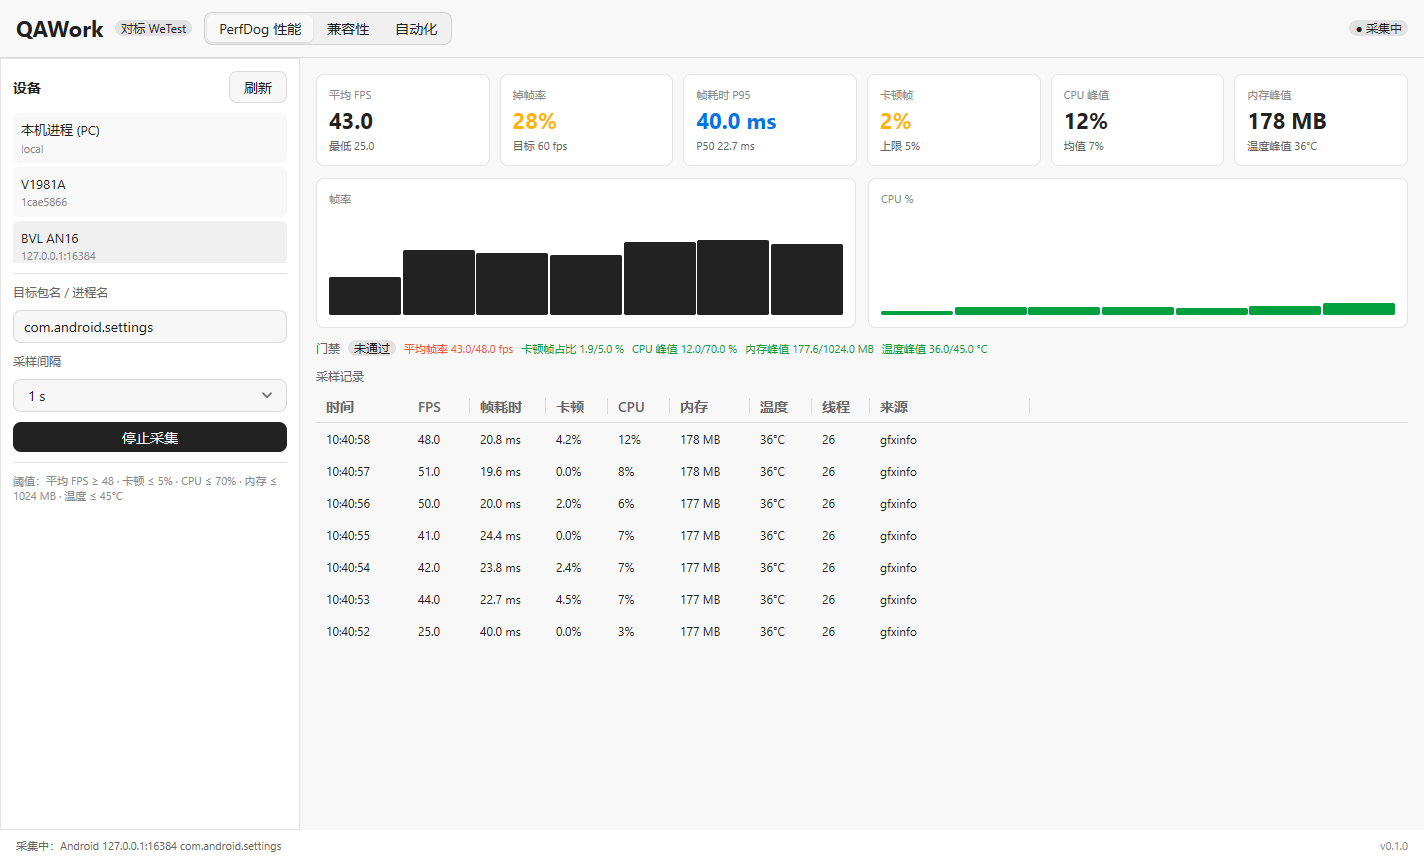
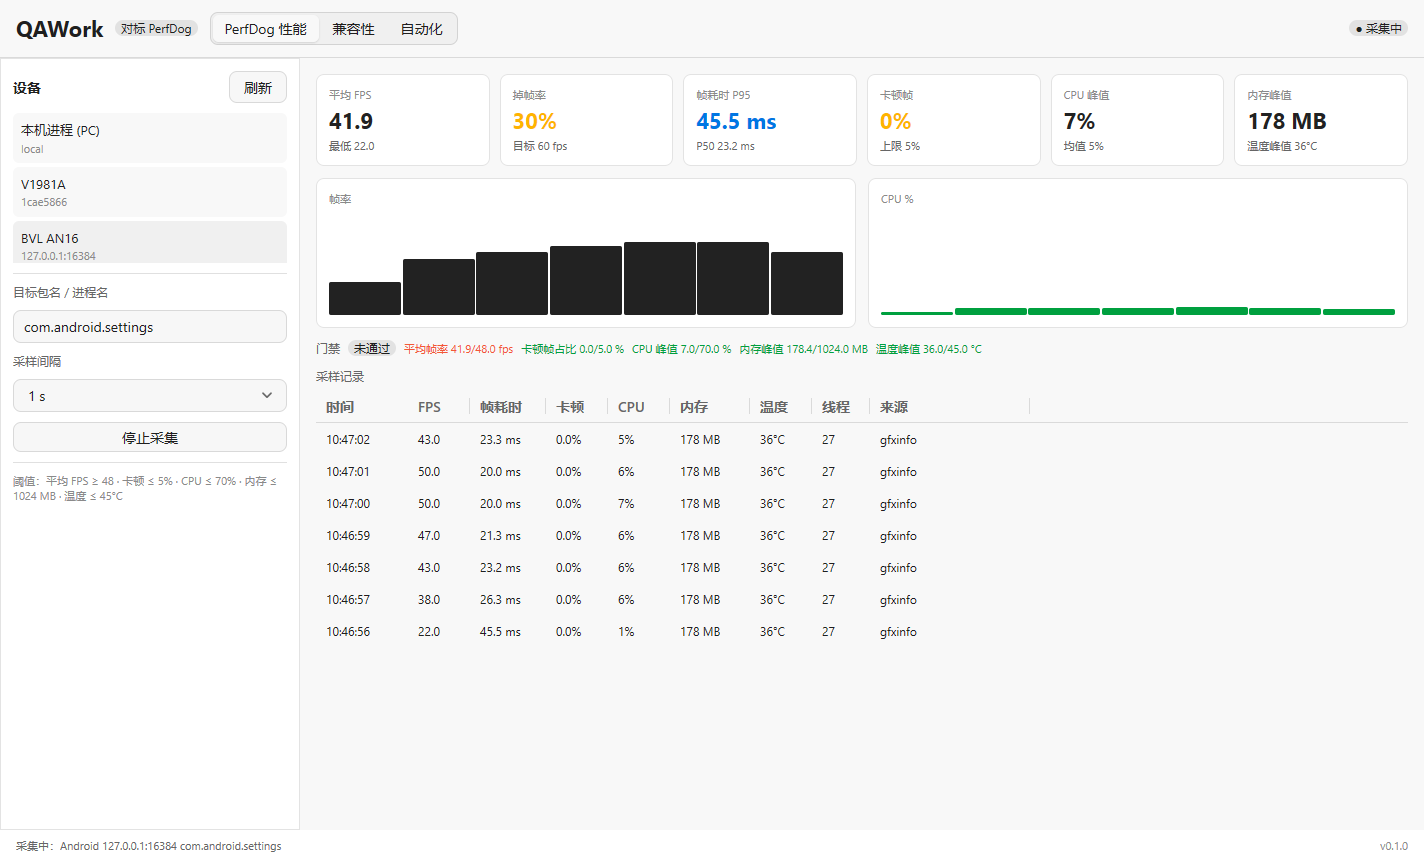
docs+ci: 竞品锁定 PerfDog 产品页，工作模式写入规范，CI 断言 CGO_ENABLED=0

diff --git a/internal/app/app.go b/internal/app/app.go
@@ -36,10 +36,20 @@ const (
 	tableSamples   = 40
 )
 
+// The workbench declares three modes. Only PerfDog performance capture is
+// wired; compatibility and automation are labelled as planned, never
+// filled with mock data. The default stays PerfDog, and the numbering is
+// part of the app's public shape.
+const (
+	ModePerfDog = iota
+	ModeCompat
+	ModeAutomation
+)
+
 // App is the state of the workbench.
 type App struct {
 	ADB           perf.ADB
-	Mode          int // 0 PerfDog 性能, 1 兼容性, 2 自动化
+	Mode          int // ModePerfDog 默认, ModeCompat, ModeAutomation
 	Serial        string
 	Target        string // Android package or Windows executable
 	Interval      int
@@ -69,7 +79,7 @@ type App struct {
 func New(host Host) *App {
 	return &App{
 		ADB:           perf.ADB{},
-		Mode:          0,
+		Mode:          ModePerfDog,
 		Interval:      1,
 		IntervalLabel: "1 s",
 		NominalFPS:    60,
@@ -311,9 +321,9 @@ func (a *App) View(c *ui.Context) {
 			a.sidebar(c, tk)
 			ui.Column(c).Grow(1).Basis(0).MinHeight(0).Padding(16).Gap(12).Children(func() {
 				switch a.Mode {
-				case 1:
+				case ModeCompat:
 					a.compatPanel(c, tk)
-				case 2:
+				case ModeAutomation:
 					a.automationPanel(c, tk)
 				default:
 					a.perfPanel(c, tk)
@@ -327,7 +337,7 @@ func (a *App) View(c *ui.Context) {
 func (a *App) header(c *ui.Context, tk *theme.Tokens) {
 	ui.Row(c).Padding(12, 16).Gap(12).AlignItems(ui.Center).Children(func() {
 		ui.Text(c, version.Product).FontSize(22).Bold().TextColor(tk.Text)
-		ui.Badge(c, "对标 WeTest")
+		ui.Badge(c, "对标 PerfDog")
 		ui.Segmented(c, &a.Mode, "PerfDog 性能", "兼容性", "自动化")
 		ui.Spacer(c)
 		if a.IsRunning() {
@@ -555,13 +565,13 @@ func (a *App) compatPanel(c *ui.Context, tk *theme.Tokens) {
 			ui.Text(c, "兼容性矩阵").FontSize(16).Bold().TextColor(tk.Text)
 			ui.Badge(c, "规划中")
 		})
-		ui.Text(c, "对标 WeTest 的云真机兼容性：QAWork 不上传安装包，走本地设备农场。").
+		ui.Text(c, "PerfDog 只做性能；兼容性在 QAWork 里是另一条线：本地设备农场，不上传安装包。").
 			FontSize(12).TextColor(tk.TextSecondary).Wrap()
 		for _, item := range []string{
 			"多机型批量安装、冷启动、首帧耗时",
 			"分辨率 / 系统版本 / ABI 矩阵，结果本地落盘",
 			"崩溃与 ANR 率统计，同一 CSV 口径进 CI",
-			"预留云真机通道：WeTest / 自建设备池二选一",
+			"预留云真机通道：租云设备或自建设备池，二选一",
 		} {
 			ui.Text(c, "· "+item).FontSize(12).TextColor(tk.TextSecondary).Wrap()
 		}

diff --git a/README.md b/README.md
@@ -5,28 +5,32 @@
 
 ![QAWork 工作台](docs/shot.png)
 
-## 三种工作模式
+## 为什么不是 PerfDog 的复制品
 
-| 模式 | 状态 | 干什么 |
+竞品很明确：[腾讯 PerfDog](https://wetest.qq.com/products/perfdog)——成熟、跨端、开箱即用的性能测试工具。QAWork 不和它拼功能数量，拼的是"能不能留在自己的流水线里"：
+
+| 维度 | PerfDog（腾讯 WeTest 产品） | QAWork（本地工作台） |
 | --- | --- | --- |
-| **PerfDog 性能**（默认） | 可用 | adb 采集帧率、帧耗时 P50/P95/P99、卡顿帧、CPU、内存、温度；写 CSV，按阈值判定 |
-| 兼容性 | 规划中 | 本地设备农场跑多机型安装/冷启/崩溃 ANR 矩阵，不上传安装包 |
-| 自动化 | 规划中 | `qawork.yaml` 用例 + adb 回放，跑完自动盖性能门禁 |
+| 形态 | 桌面客户端 + 账号体系，云同步报告 | 开源原生窗口 + CLI，离线可用 |
+| 平台 | Android / iOS 等多端，覆盖成熟 | Android + Windows 本机进程（CPU/内存），iOS 未接 |
+| 数据 | 平台报告为主 | CSV/JSON 落本地，直接进 CI |
+| 自动化 | 客户端内报告与分析 | 退出码 2 的门禁，任意 CI 直接卡 |
+| 二开 | 闭源 | 纯 Go，改采样器、接自有设备池 |
+| 成本 | 免费额度 + 订阅，以官方为准 | 开源免费，硬件自己的 |
 
-## 为什么不是 WeTest 的复制品
+定位：**PerfDog 解决"拿来就能测"，QAWork 解决"测完能卡住发布"。** 短期不追它的平台覆盖，先把 Android 口径和 CI 门禁做扎实。
 
-WeTest 是腾讯的质量开放平台，强在云真机池和 SaaS 协作；QAWork 走的是另一条路：
+## 工作模式
 
-| 维度 | WeTest（云平台） | QAWork（本地工作台） |
-| --- | --- | --- |
-| 形态 | 网页 + 云真机 + 客户端 SDK | 原生桌面窗口 + CLI，离线可用 |
-| 数据 | 上传云端 | CSV/JSON 落本地，直接进 CI |
-| 性能采集 | 云真机 / PerfDog 系列工具 | 内置 PerfDog 口径：SurfaceFlinger 帧延迟 + `/proc` 进程指标 |
-| 兼容性 | 租云真机跑矩阵 | 接自己的设备池，零上传 |
-| 自动化 | 云端用例编排 | 本地用例 + CI 触发 |
-| 成本 | 按设备时长计费，以官方为准 | 开源免费，硬件自己的 |
+当前声明三种，只有第一种是可用状态，另外两种是明确标注的规划，不摆假数据：
 
-定位很清楚：**WeTest 解决"没设备、要协作"，QAWork 解决"有设备、要快、要能进流水线"。**
+| # | 模式 | 状态 | 说明 |
+| --- | --- | --- | --- |
+| 0 | **PerfDog 性能**（默认） | 可用 | 对标 [PerfDog](https://wetest.qq.com/products/perfdog) 的采集口径 |
+| 1 | 兼容性 | 规划中 | 本地设备农场跑安装/冷启/崩溃矩阵，不属于 PerfDog 的能力范围 |
+| 2 | 自动化 | 规划中 | `qawork.yaml` 用例 + adb 回放 + 性能门禁 |
+
+模式编号与默认值写死在 `internal/app`（`Mode` 默认 0），文档、UI、CLI 三处必须一致。
 
 ## 快速开始
 
@@ -95,7 +99,7 @@ if ($LASTEXITCODE -eq 2) { throw "性能门禁未通过" }
 
 ## 商标
 
-WeTest、PerfDog 是腾讯的商标/产品。QAWork 与腾讯无隶属关系，"PerfDog 模式"仅表示采集口径对齐，便于横向比较。
+WeTest、PerfDog 是腾讯的商标/产品，竞品页为 <https://wetest.qq.com/products/perfdog>。QAWork 与腾讯无隶属关系，"PerfDog 模式"仅表示采集口径对齐，便于横向比较。
 
 ## License
 

diff --git a/AGENTS.md b/AGENTS.md
@@ -5,9 +5,24 @@ QAWork 的工程规则。改代码前先读这一页。
 ## 栈与约束
 
 - **Go 1.27+，纯 Go，`CGO_ENABLED=0`**。不允许 `import "C"`，不允许 C/C++ 构建依赖。
+- **构建硬约束**：所有构建、测试、CI 都显式 `CGO_ENABLED=0`；验证时 `go env CGO_ENABLED` 必须是 `0`。引入 cgo 的 PR 直接拒，不讨论"临时开一下"。
 - **原生 UI**：`github.com/egoist/mygo`（`ui.View` / `ui.Context`）+ `github.com/lobehub/lobe-mygo/pkg/theme`（设计令牌）。不用 WebView、HTML、CSS、JS。
 - **发布目标**：`windows/amd64` 的 `qawork.exe` 与 `qawork-gui.exe`，产物进 `dist/`。macOS 不是当前验收目标。
-- **产品定位**：产品名 QAWork，对标腾讯 WeTest；**默认工作模式 = PerfDog 性能模式**。这条不许在迭代中漂移。
+
+## 工作模式（固定，不许漂移）
+
+| # | 模式 | 状态 | 竞品/口径 |
+| --- | --- | --- | --- |
+| 0 | **PerfDog 性能**（默认） | 可用 | 竞品：[腾讯 PerfDog](https://wetest.qq.com/products/perfdog)，只对齐采集口径 |
+| 1 | 兼容性 | 规划中 | 本地设备农场矩阵，对标 WeTest 云真机的场景，不属于 PerfDog 能力 |
+| 2 | 自动化 | 规划中 | `qawork.yaml` + adb 回放 + 性能门禁 |
+
+规则：
+
+- `internal/app` 的 `Mode` 默认必须是 `0`（PerfDog 性能），GUI 启动即进入该模式。
+- 新增/改名模式要同时改三处：`internal/app` 的模式常量与标签、README「工作模式」、本表。
+- 未实现的模式只能显示"规划中"，不许在 UI 里给出假数据、假进度、假报告。
+- 竞品固定指 PerfDog 产品页 <https://wetest.qq.com/products/perfdog>；WeTest 只作为其母平台在必要处提及，不要混为同一竞品。
 
 ## 分层
 

diff --git a/docs/perfdog-mode.md b/docs/perfdog-mode.md
@@ -1,6 +1,6 @@
 # PerfDog 性能模式：采集口径
 
-QAWork 的默认模式。名字里的 PerfDog 指腾讯的性能测试工具，这里表示“指标口径对齐”，不代表任何隶属或兼容承诺。
+QAWork 的默认模式。名字里的 PerfDog 指腾讯 WeTest 旗下的性能测试工具（竞品页：<https://wetest.qq.com/products/perfdog>），这里表示“指标口径对齐”，不代表任何隶属或兼容承诺。
 
 ## 一次采集的流程
 
